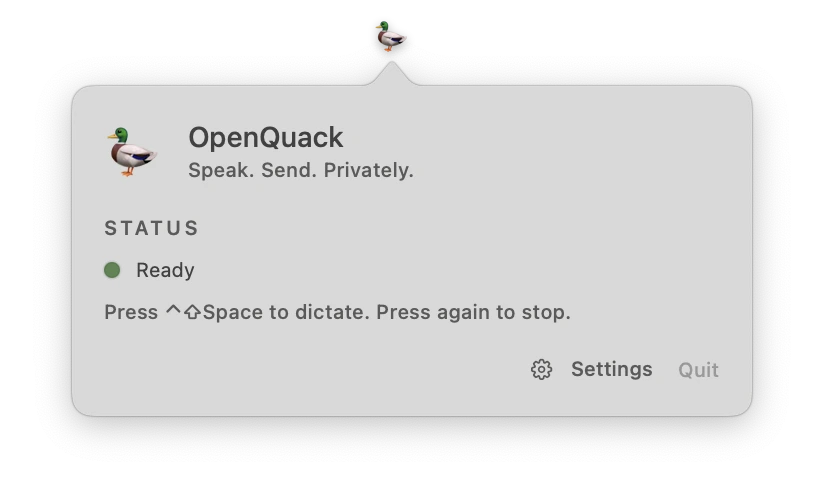
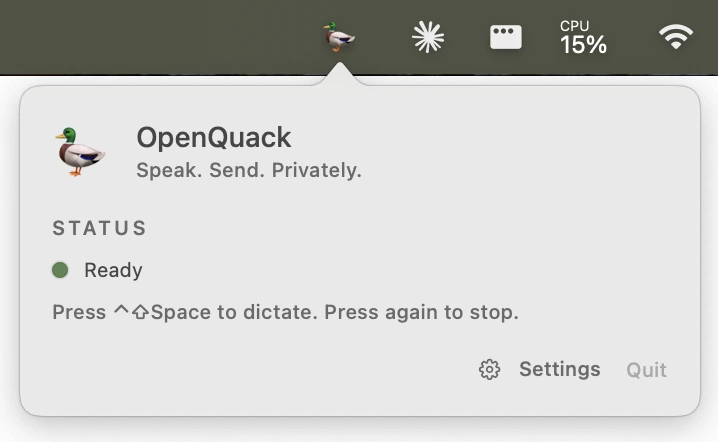
docs: expand README screenshots — menubar+recording, onboarding, settings+about
- Replace cropped menubar shot with a wider one that shows the duck in
  context with neighbouring system icons. Pair side-by-side with the
  recording overlay pill at the top of the README ("What it is").
- Move the onboarding shot to the end of "What you get".
- Add settings + about screenshots in a single 400-px-tall row right
  after the onboarding shot. Same q92 lossy WebP pipeline, all
  metadata stripped via cwebp `-metadata none`.

Image weight in the repo:
  menubar.webp     17 KB  (was 24 KB; new source is wider but compresses better)
  recording.webp   15 KB
  onboarding.webp  82 KB  (unchanged)
  settings.webp    78 KB
  about.webp      110 KB
                  ----
  total          ~302 KB

diff --git a/README.md b/README.md
@@ -22,10 +22,8 @@ Speech recognition happens on your Mac. No cloud, no account, no signup, no tele
 
 <p align="center">
   <img src="docs/images/menubar.webp" width="420" alt="OpenQuack menu-bar popover — Speak. Send. Privately. with a Ready status and the dictation hotkey">
-</p>
-
-<p align="center">
-  <img src="docs/images/onboarding.webp" width="520" alt="OpenQuack first-launch welcome screen — Local-only by design, Fast and accurate, Open source MIT">
+  &nbsp;
+  <img src="docs/images/recording.webp" width="380" alt="OpenQuack recording overlay — small pill with a live audio level meter and elapsed time">
 </p>
 
 ## Why
@@ -48,6 +46,16 @@ Speech recognition happens on your Mac. No cloud, no account, no signup, no tele
 - **Quick first-launch setup** — permissions, hotkey, done in a minute.
 - **Tiny.** An 8 MB menu-bar app, plus the speech model on first run.
 - **Open source**, MIT.
+
+<p align="center">
+  <img src="docs/images/onboarding.webp" height="400" alt="OpenQuack first-launch welcome screen — Local-only by design, Fast and accurate, Open source MIT">
+</p>
+
+<p align="center">
+  <img src="docs/images/settings.webp" height="400" alt="OpenQuack Settings → General tab — Speech-to-text model picker, Behaviour toggles, Language">
+  &nbsp;
+  <img src="docs/images/about.webp" height="400" alt="OpenQuack Settings → About tab — version, links, FAQ">
+</p>
 
 ## Privacy, in one screen
 
